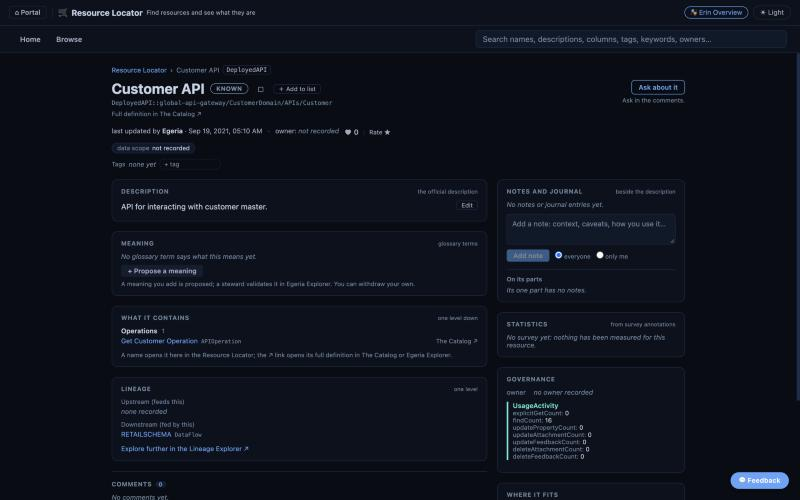
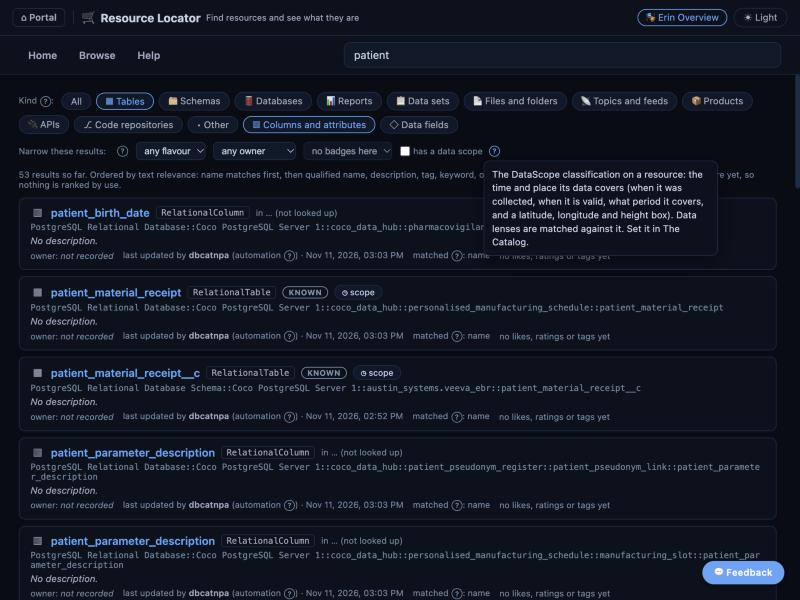
docs(release-notes): retake the SoA and Resource Locator screenshots as Erin on Egeria 6.3
The two Statements of Applicability shots now come from released Egeria 6.3
and pyegeria 6.3.0 on laz. The Resource Locator shot shows the new search
across tables and columns, the multi-kind filter and the hover help (#889).

diff --git a/release-notes-6.3/newsletter-november-2026.md b/release-notes-6.3/newsletter-november-2026.md
@@ -80,13 +80,9 @@ Egeria Workspaces, our ready-to-run environment, now tracks the Egeria 6.3 build
 - **Airflow and Marquez start with the demo**, and Airflow's lineage flows into Egeria through OpenLineage.
 - **Coco Pharmaceuticals content**: a Chief Data Officer dashboard, security support, sustainability reference data, and Airflow pipelines that bring the digital products to life.
 
-<!-- TODO-IMAGE: Resource Browser page for one Coco resource. File: november-2026-resource-browser.png
-     Owner 2026-11-16: Resource Locator updates are in progress; retake this shot (and any Locator shots in the blog 11 tour) only after they land on laz.
-     Coordinator 2026-11-17 00:00:26Z: the Locator chain is LIVE on laz (L4 091bba00): search on columns and attributes, a multi-type filter,
-     hover help on terms, Data Scope / Data Lens editing, refreshed docs. Branches claude/rl-* (to claude/rl-docs 428a0155) go to odpi in the
-     next bundled PR; PR is odpi/egeria-workspaces#889 (open); entries staged in the workspaces notes. Show these features in the retake.
-     DRAFT shot taken 2026-11-13 as erinoverview on laz at 800x500 (pane limit); retake at full resolution before publishing. -->
-![The Resource Locator page for the Customer API: what it contains, its lineage, and its usage activity](november-2026-resource-browser.jpg)
+<!-- IMAGE retaken 2026-11-17 ~00:30Z as Erin Overview on laz (Portal L4 091bba00, Locator chain from odpi/egeria-workspaces#889,
+     open), 800x600: a search for "patient" filtered to Tables + Columns and attributes, with the Data Scope hover help open. -->
+![A Resource Locator search for "patient" across tables and columns, with the help for "has a data scope" open](november-2026-resource-browser.jpg)
 
 You can [try the live demo](https://egeria.pdr-associates.com){target=blank} without installing anything (signing up takes a minute), or run [Egeria Workspaces](https://egeria-project.org/egeria-workspaces/) locally with Docker or Podman.
 
